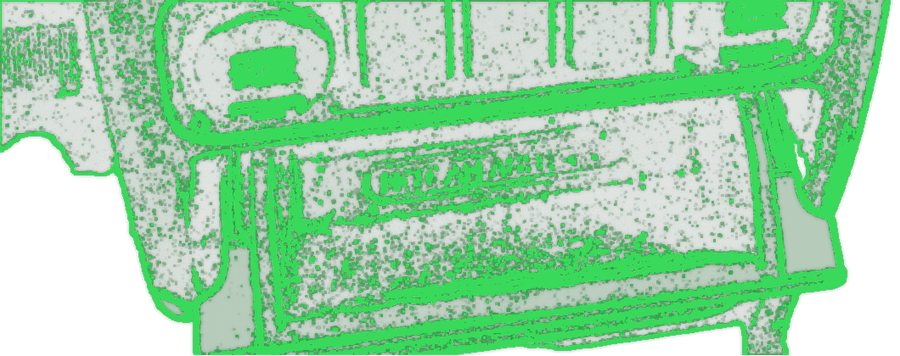
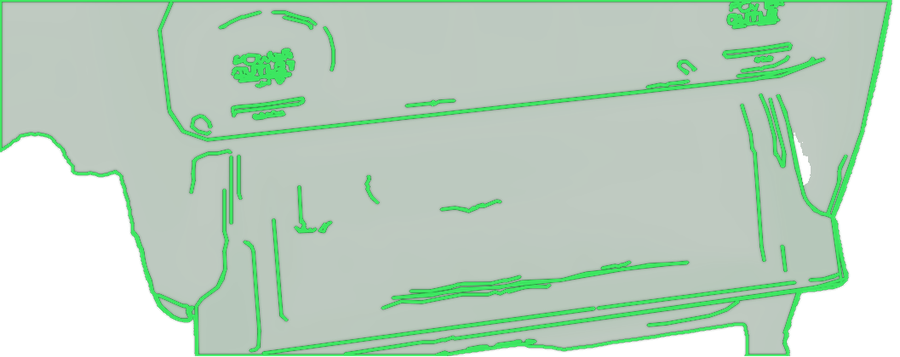
Clean the new ghost guides down to long contour lines.
Denoise, drop short edges, and redraw a smooth dark body. The gauge guide is now two round dials. The twelve original ghosts are unchanged.

diff --git a/404.html b/404.html
@@ -4024,31 +4024,31 @@ const GHOSTS = {
   "qrear_pass": "ghosts/qrear.png?v=6",
   "pass": "ghosts/driver.png?v=6",
   "qfront_pass": "ghosts/qfront.png?v=6",
-  "roof": "ghosts/roof.png?v=20261008i",
-  "headlight": "ghosts/headlight.png?v=20261008i",
-  "wheel": "ghosts/wheel.png?v=20261008i",
-  "taillight": "ghosts/taillight.png?v=20261008i",
-  "badge": "ghosts/badge.png?v=20261008i",
-  "engine": "ghosts/engine.png?v=20261008i",
-  "jamb": "ghosts/jamb.png?v=20261008i",
-  "gauges": "ghosts/gauges.png?v=20261008i",
-  "steering": "ghosts/steering.png?v=20261008i",
-  "screen": "ghosts/screen.png?v=20261008i",
-  "backup": "ghosts/backup.png?v=20261008i",
-  "climate": "ghosts/climate.png?v=20261008i",
-  "sunroof": "ghosts/sunroof.png?v=20261008i",
-  "headliner": "ghosts/headliner.png?v=20261008i",
-  "rearseat": "ghosts/rearseat.png?v=20261008i",
-  "legroom": "ghosts/legroom.png?v=20261008i",
-  "passeat": "ghosts/passeat.png?v=20261008i",
-  "cargo": "ghosts/cargo.png?v=20261008i",
-  "folded": "ghosts/folded.png?v=20261008i",
-  "keys": "ghosts/keys.png?v=20261008i",
-  "bedside": "ghosts/bedside.png?v=20261008i",
-  "bedtail": "ghosts/bedtail.png?v=20261008i",
-  "bedhitch": "ghosts/bedhitch.png?v=20261008i",
-  "sliding": "ghosts/sliding.png?v=20261008i",
-  "thirdrow": "ghosts/thirdrow.png?v=20261008i"
+  "roof": "ghosts/roof.png?v=20261008k",
+  "headlight": "ghosts/headlight.png?v=20261008k",
+  "wheel": "ghosts/wheel.png?v=20261008k",
+  "taillight": "ghosts/taillight.png?v=20261008k",
+  "badge": "ghosts/badge.png?v=20261008k",
+  "engine": "ghosts/engine.png?v=20261008k",
+  "jamb": "ghosts/jamb.png?v=20261008k",
+  "gauges": "ghosts/gauges.png?v=20261008k",
+  "steering": "ghosts/steering.png?v=20261008k",
+  "screen": "ghosts/screen.png?v=20261008k",
+  "backup": "ghosts/backup.png?v=20261008k",
+  "climate": "ghosts/climate.png?v=20261008k",
+  "sunroof": "ghosts/sunroof.png?v=20261008k",
+  "headliner": "ghosts/headliner.png?v=20261008k",
+  "rearseat": "ghosts/rearseat.png?v=20261008k",
+  "legroom": "ghosts/legroom.png?v=20261008k",
+  "passeat": "ghosts/passeat.png?v=20261008k",
+  "cargo": "ghosts/cargo.png?v=20261008k",
+  "folded": "ghosts/folded.png?v=20261008k",
+  "keys": "ghosts/keys.png?v=20261008k",
+  "bedside": "ghosts/bedside.png?v=20261008k",
+  "bedtail": "ghosts/bedtail.png?v=20261008k",
+  "bedhitch": "ghosts/bedhitch.png?v=20261008k",
+  "sliding": "ghosts/sliding.png?v=20261008k",
+  "thirdrow": "ghosts/thirdrow.png?v=20261008k"
 };
 const ASSET_BASE="https://carmojiguy.github.io/";
 function assetUrl(p){ return (ASSET_BASE||"")+String(p||"").replace(/^\//,""); }

diff --git a/index.html b/index.html
@@ -4024,31 +4024,31 @@ const GHOSTS = {
   "qrear_pass": "ghosts/qrear.png?v=6",
   "pass": "ghosts/driver.png?v=6",
   "qfront_pass": "ghosts/qfront.png?v=6",
-  "roof": "ghosts/roof.png?v=20261008i",
-  "headlight": "ghosts/headlight.png?v=20261008i",
-  "wheel": "ghosts/wheel.png?v=20261008i",
-  "taillight": "ghosts/taillight.png?v=20261008i",
-  "badge": "ghosts/badge.png?v=20261008i",
-  "engine": "ghosts/engine.png?v=20261008i",
-  "jamb": "ghosts/jamb.png?v=20261008i",
-  "gauges": "ghosts/gauges.png?v=20261008i",
-  "steering": "ghosts/steering.png?v=20261008i",
-  "screen": "ghosts/screen.png?v=20261008i",
-  "backup": "ghosts/backup.png?v=20261008i",
-  "climate": "ghosts/climate.png?v=20261008i",
-  "sunroof": "ghosts/sunroof.png?v=20261008i",
-  "headliner": "ghosts/headliner.png?v=20261008i",
-  "rearseat": "ghosts/rearseat.png?v=20261008i",
-  "legroom": "ghosts/legroom.png?v=20261008i",
-  "passeat": "ghosts/passeat.png?v=20261008i",
-  "cargo": "ghosts/cargo.png?v=20261008i",
-  "folded": "ghosts/folded.png?v=20261008i",
-  "keys": "ghosts/keys.png?v=20261008i",
-  "bedside": "ghosts/bedside.png?v=20261008i",
-  "bedtail": "ghosts/bedtail.png?v=20261008i",
-  "bedhitch": "ghosts/bedhitch.png?v=20261008i",
-  "sliding": "ghosts/sliding.png?v=20261008i",
-  "thirdrow": "ghosts/thirdrow.png?v=20261008i"
+  "roof": "ghosts/roof.png?v=20261008k",
+  "headlight": "ghosts/headlight.png?v=20261008k",
+  "wheel": "ghosts/wheel.png?v=20261008k",
+  "taillight": "ghosts/taillight.png?v=20261008k",
+  "badge": "ghosts/badge.png?v=20261008k",
+  "engine": "ghosts/engine.png?v=20261008k",
+  "jamb": "ghosts/jamb.png?v=20261008k",
+  "gauges": "ghosts/gauges.png?v=20261008k",
+  "steering": "ghosts/steering.png?v=20261008k",
+  "screen": "ghosts/screen.png?v=20261008k",
+  "backup": "ghosts/backup.png?v=20261008k",
+  "climate": "ghosts/climate.png?v=20261008k",
+  "sunroof": "ghosts/sunroof.png?v=20261008k",
+  "headliner": "ghosts/headliner.png?v=20261008k",
+  "rearseat": "ghosts/rearseat.png?v=20261008k",
+  "legroom": "ghosts/legroom.png?v=20261008k",
+  "passeat": "ghosts/passeat.png?v=20261008k",
+  "cargo": "ghosts/cargo.png?v=20261008k",
+  "folded": "ghosts/folded.png?v=20261008k",
+  "keys": "ghosts/keys.png?v=20261008k",
+  "bedside": "ghosts/bedside.png?v=20261008k",
+  "bedtail": "ghosts/bedtail.png?v=20261008k",
+  "bedhitch": "ghosts/bedhitch.png?v=20261008k",
+  "sliding": "ghosts/sliding.png?v=20261008k",
+  "thirdrow": "ghosts/thirdrow.png?v=20261008k"
 };
 const ASSET_BASE="https://carmojiguy.github.io/";
 function assetUrl(p){ return (ASSET_BASE||"")+String(p||"").replace(/^\//,""); }

diff --git a/inspect-vehicle.html b/inspect-vehicle.html
@@ -4024,31 +4024,31 @@ const GHOSTS = {
   "qrear_pass": "ghosts/qrear.png?v=6",
   "pass": "ghosts/driver.png?v=6",
   "qfront_pass": "ghosts/qfront.png?v=6",
-  "roof": "ghosts/roof.png?v=20261008i",
-  "headlight": "ghosts/headlight.png?v=20261008i",
-  "wheel": "ghosts/wheel.png?v=20261008i",
-  "taillight": "ghosts/taillight.png?v=20261008i",
-  "badge": "ghosts/badge.png?v=20261008i",
-  "engine": "ghosts/engine.png?v=20261008i",
-  "jamb": "ghosts/jamb.png?v=20261008i",
-  "gauges": "ghosts/gauges.png?v=20261008i",
-  "steering": "ghosts/steering.png?v=20261008i",
-  "screen": "ghosts/screen.png?v=20261008i",
-  "backup": "ghosts/backup.png?v=20261008i",
-  "climate": "ghosts/climate.png?v=20261008i",
-  "sunroof": "ghosts/sunroof.png?v=20261008i",
-  "headliner": "ghosts/headliner.png?v=20261008i",
-  "rearseat": "ghosts/rearseat.png?v=20261008i",
-  "legroom": "ghosts/legroom.png?v=20261008i",
-  "passeat": "ghosts/passeat.png?v=20261008i",
-  "cargo": "ghosts/cargo.png?v=20261008i",
-  "folded": "ghosts/folded.png?v=20261008i",
-  "keys": "ghosts/keys.png?v=20261008i",
-  "bedside": "ghosts/bedside.png?v=20261008i",
-  "bedtail": "ghosts/bedtail.png?v=20261008i",
-  "bedhitch": "ghosts/bedhitch.png?v=20261008i",
-  "sliding": "ghosts/sliding.png?v=20261008i",
-  "thirdrow": "ghosts/thirdrow.png?v=20261008i"
+  "roof": "ghosts/roof.png?v=20261008k",
+  "headlight": "ghosts/headlight.png?v=20261008k",
+  "wheel": "ghosts/wheel.png?v=20261008k",
+  "taillight": "ghosts/taillight.png?v=20261008k",
+  "badge": "ghosts/badge.png?v=20261008k",
+  "engine": "ghosts/engine.png?v=20261008k",
+  "jamb": "ghosts/jamb.png?v=20261008k",
+  "gauges": "ghosts/gauges.png?v=20261008k",
+  "steering": "ghosts/steering.png?v=20261008k",
+  "screen": "ghosts/screen.png?v=20261008k",
+  "backup": "ghosts/backup.png?v=20261008k",
+  "climate": "ghosts/climate.png?v=20261008k",
+  "sunroof": "ghosts/sunroof.png?v=20261008k",
+  "headliner": "ghosts/headliner.png?v=20261008k",
+  "rearseat": "ghosts/rearseat.png?v=20261008k",
+  "legroom": "ghosts/legroom.png?v=20261008k",
+  "passeat": "ghosts/passeat.png?v=20261008k",
+  "cargo": "ghosts/cargo.png?v=20261008k",
+  "folded": "ghosts/folded.png?v=20261008k",
+  "keys": "ghosts/keys.png?v=20261008k",
+  "bedside": "ghosts/bedside.png?v=20261008k",
+  "bedtail": "ghosts/bedtail.png?v=20261008k",
+  "bedhitch": "ghosts/bedhitch.png?v=20261008k",
+  "sliding": "ghosts/sliding.png?v=20261008k",
+  "thirdrow": "ghosts/thirdrow.png?v=20261008k"
 };
 const ASSET_BASE="https://carmojiguy.github.io/";
 function assetUrl(p){ return (ASSET_BASE||"")+String(p||"").replace(/^\//,""); }

diff --git a/tools/photo_ghosts.py b/tools/photo_ghosts.py
@@ -42,13 +42,14 @@ SLOTS = {
     },
     "jamb": {"title": "File:Tire and Loading Information.jpg"},
     "gauges": {
-        "title": "File:Tesla Model S Instrument Cluster Speedometer.jpg",
+        "title": "File:Speedometer & Tachometer - 2013 Ford Focus ST (10062706656).jpg",
         "fill": True,
-        "note": "Modern cluster, face-on. The crop is the cluster.",
+        "note": "Two round dials, face-on. The hood around the cluster is not in this crop.",
     },
     "steering": {
         "title": "File:Steering Wheel Closeup - 2013 Volvo S60 T5 AWD (8388958639).jpg",
-        "note": "Full modern wheel, front-on.",
+        "ellipse": (0.50, 0.47, 0.46, 0.48),
+        "note": "Full modern wheel, front-on, including the rim, spokes and airbag.",
     },
     "screen": {
         "title": "File:360-degree surround-view parking camera display on an infotainment screen.jpg",
@@ -187,58 +188,68 @@ def sobel(lum):
 
 
 def hologram(im):
-    """Bright edge lines and a silhouette over a dark transparent body.
+    """A few long bright lines over a smooth dark green body.
 
-    Green ratios match the original ghosts (R = 0.264 G, B = 0.418 G).
-    Body green sits near the dark end of those files. Edge cores stay under
-    the blown-out cap so the opaque median is not a spike at 255.
+    Salt-and-pepper Sobel is gone. The photo is denoised, then hysteresis
+    Canny keeps only contours long enough to read at thumbnail size.
+    Green ratios match the originals: R = 0.264 G, B = 0.418 G.
     """
-    rgba = np.array(im.convert("RGBA")).astype(np.float32)
+    import cv2
+
+    rgba = np.array(im.convert("RGBA"))
     rgb = rgba[:, :, :3]
-    a = rgba[:, :, 3] / 255.0
-    lum = 0.2126 * rgb[:, :, 0] + 0.7152 * rgb[:, :, 1] + 0.0722 * rgb[:, :, 2]
-    soft = np.array(
-        Image.fromarray(np.clip(lum, 0, 255).astype(np.uint8)).filter(ImageFilter.GaussianBlur(2.2))
-    ).astype(np.float32)
-    detail = np.clip(lum + (lum - soft) * 1.7, 0, 255)
-    mag = sobel(detail)
-    mask = a > 0.22
+    alpha = rgba[:, :, 3]
+    h, w = alpha.shape
+    lum = cv2.cvtColor(rgb, cv2.COLOR_RGB2GRAY)
+    lum = cv2.bilateralFilter(lum, d=9, sigmaColor=50, sigmaSpace=7)
+    clahe = cv2.createCLAHE(clipLimit=2.2, tileGridSize=(8, 8))
+    eq = clahe.apply(lum)
+    mask = alpha > 40
     if int(mask.sum()) < 80:
-        mask = a > 0.05
-    if mask.any():
-        p_lo, p_hi = np.percentile(mag[mask], [68, 93])
-    else:
-        p_lo, p_hi = 20.0, 80.0
-    edge = np.clip((mag - p_lo) / max(8.0, p_hi - p_lo), 0, 1) * 1.15
-    edge = np.clip(edge, 0, 1) * (a > 0.12)
-    edge = np.array(
-        Image.fromarray(np.clip(edge * 255, 0, 255).astype(np.uint8)).filter(ImageFilter.MaxFilter(3))
-    ).astype(np.float32) / 255.0
-    solid = Image.fromarray(np.clip((a > 0.30) * 255, 0, 255).astype(np.uint8))
-    dil = np.array(solid.filter(ImageFilter.MaxFilter(7))).astype(np.float32) / 255.0
-    ero = np.array(solid.filter(ImageFilter.MinFilter(3))).astype(np.float32) / 255.0
-    sil = np.clip(dil - ero, 0, 1)
-    line = np.maximum(edge, sil * 0.95)
-    glow = np.array(
-        Image.fromarray(np.clip(line * 255, 0, 255).astype(np.uint8)).filter(ImageFilter.GaussianBlur(2.1))
-    ).astype(np.float32) / 255.0
-    if mask.any():
-        p5, p95 = np.percentile(detail[mask], [8, 92])
-    else:
-        p5, p95 = 20.0, 200.0
-    tone = np.clip((detail - p5) / max(12.0, p95 - p5), 0, 1)
-    body_g = 46 + tone * (92 - 46)
-    hot = np.clip(148 + line * 58, 0, 230)
-    weight = np.clip(line * 0.90 + glow * 0.22, 0, 1)
-    green = np.clip(body_g * (1 - weight) + hot * weight + glow * 12, 0, 236)
-    alpha = 0.32 * (0.40 + 0.60 * tone) * (a > 0.16) + glow * 0.38 + line * 0.72
-    alpha = np.clip(alpha, 0, 1)
-    alpha = np.where((a < 0.06) & (glow < 0.06), 0, alpha)
-    out = np.zeros_like(rgba)
+        mask = alpha > 12
+    min_len = 0.055 * min(h, w)
+    lo, hi = 60, 150
+    contours = []
+    for _ in range(4):
+        edges = cv2.Canny(eq, lo, hi)
+        edges[~mask] = 0
+        found, _ = cv2.findContours(edges, cv2.RETR_LIST, cv2.CHAIN_APPROX_NONE)
+        contours = [c for c in found if cv2.arcLength(c, False) >= min_len]
+        if len(contours) < 4:
+            lo = max(15, int(lo * 0.7))
+            hi = max(lo + 20, int(hi * 0.75))
+            min_len *= 0.8
+        elif len(contours) > 36:
+            lo = min(140, int(lo * 1.25))
+            hi = min(240, int(hi * 1.2))
+            min_len *= 1.15
+        else:
+            break
+    line = np.zeros((h, w), np.uint8)
+    for c in contours:
+        eps = max(1.2, 0.004 * cv2.arcLength(c, False))
+        simple = cv2.approxPolyDP(c, eps, False)
+        cv2.polylines(line, [simple], False, 255, 2, cv2.LINE_AA)
+    solid = np.where(mask, 255, 0).astype(np.uint8)
+    outer, _ = cv2.findContours(solid, cv2.RETR_EXTERNAL, cv2.CHAIN_APPROX_SIMPLE)
+    sil = np.zeros((h, w), np.uint8)
+    cv2.drawContours(sil, outer, -1, 255, 2, cv2.LINE_AA)
+    hot = np.maximum(line, sil)
+    glow = cv2.GaussianBlur(hot, (0, 0), 1.6)
+    tone = cv2.GaussianBlur(lum, (0, 0), 6).astype(np.float32) / 255.0
+    body_g = 52 + tone * 36
+    green = body_g.copy()
+    hot_f = hot.astype(np.float32) / 255.0
+    glow_f = glow.astype(np.float32) / 255.0
+    green = np.clip(green * (1 - hot_f) + 215 * hot_f + glow_f * 18, 0, 230)
+    body_a = (0.26 + 0.08 * tone) * mask
+    alpha_out = np.clip(body_a + glow_f * 0.35 + hot_f * 0.85, 0, 1)
+    alpha_out = np.where(mask | (glow_f > 0.08), alpha_out, 0)
+    out = np.zeros((h, w, 4), np.float32)
     out[:, :, 0] = green * 0.264
     out[:, :, 1] = green
     out[:, :, 2] = green * 0.418
-    out[:, :, 3] = alpha * 255
+    out[:, :, 3] = alpha_out * 255
     return Image.fromarray(np.clip(out, 0, 255).astype(np.uint8), "RGBA")
 
 
@@ -388,9 +399,10 @@ def write_credits(rows):
         "control panel). The picture is never left as a feathered rectangle of",
         "a whole room.",
         "",
-        "The green is an x-ray of that cutout. Sobel edges plus a silhouette",
-        "stroke are the hot core, with a short glow. The body is a dark green",
-        "at low opacity (R = 0.264 G, B = 0.418 G, the original ghost colour).",
+        "The green is an x-ray of that cutout. Denoised hysteresis contours,",
+        "simplified so short speckle is dropped, plus a silhouette stroke.",
+        "The body is a smooth dark green at low opacity (R = 0.264 G,",
+        "B = 0.418 G, the original ghost colour).",
         "",
         "Regenerate with tools/photo_ghosts.py.",
         "",
